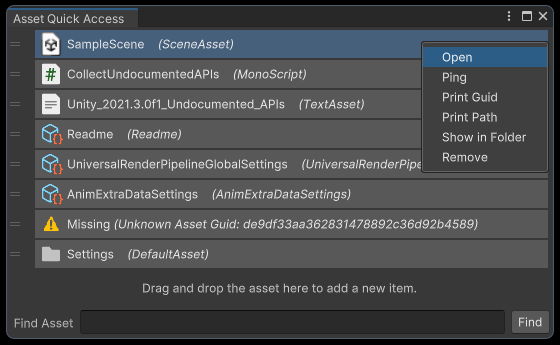
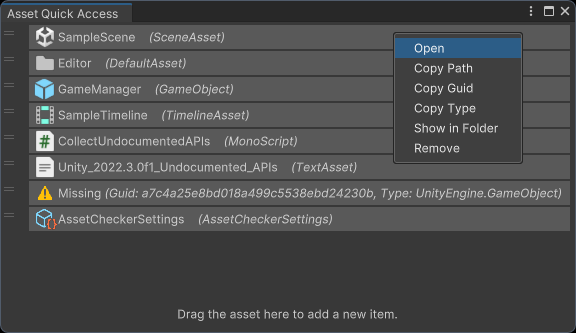
feat: Update context menu & update preview image

diff --git a/Editor/Scripts/AssetQuickAccessWindow.cs b/Editor/Scripts/AssetQuickAccessWindow.cs
@@ -175,11 +175,19 @@ namespace GBG.AssetQuickAccess.Editor
             menu.AddItem(new GUIContent("Print All Items"), false,
                 AssetQuickAccessLocalCache.instance.PrintAllAssets);
             menu.AddSeparator("");
+
+            // Source Code
+            menu.AddItem(new GUIContent("Source Code"), false, () =>
+            {
+                Application.OpenURL("https://github.com/SolarianZ/UnityAssetQuickAccessTool");
+            });
+            menu.AddSeparator("");
+
+            // Debug
             menu.AddItem(new GUIContent("[Debug] Inspect settings"), false, () =>
             {
                 Selection.activeObject = AssetQuickAccessLocalCache.instance;
             });
-
         }
 
         #endregion
